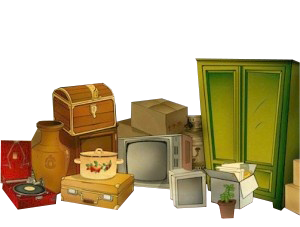
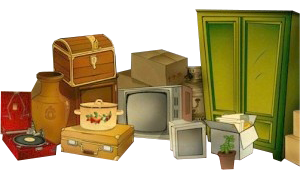
page twelve!

diff --git a/honCartman/index.html b/honCartman/index.html
@@ -104,10 +104,11 @@
       <div class="stairs"><img class="wow tada" src="images/stairs.png" alt=""></div>
       <p class="eleventhText">Upp för en trappa till – raska på!</p>
     </div>
-    <div class="section">
-      <img class="wow fadeInLeft" src="cartman/searchingcart.png" alt="">
-      <img class="wow bounceInRight" src="images/attic.jpg" alt="">
-      <p>Uppe på vinden finns mycket gammalt bråte. Där går det bra att gömma sig. Vi ska ta och leta i hörnet bakom väskorna. Tror du det finns någon där?</p>
+    <div class="section twelfth">
+      <div class="searchingcart"><img class="wow fadeInLeft" src="cartman/searchingcart.png" alt=""></div>
+      <div class="attic"><img class="wow bounceInRight" src="images/attic.png" alt=""></div>
+      <div class="spider"><img class="wow bounceInLeft" src="images/spider.png" alt=""></div>
+      <p class="twelfthText">Uppe på vinden finns mycket gammalt bråte. Där går det bra att gömma sig. Vi ska ta och leta i hörnet bakom väskorna. Tror du det finns någon där?</p>
     </div>
     <div class="section">
       <img class="wow rubberBand" src="cartman/scaredFaceCartman.png" alt="">

diff --git a/honCartman/customize.css b/honCartman/customize.css
@@ -551,12 +551,13 @@ transform: rotate(-30deg);
 /*ELEVENTH PAGE*/
 
 .eleventh {
-  background-color: #8e44ad;
+  background-color: #34495e;
 }
 
 .eleventhText {
   position: absolute;
   margin: auto;
+  color: white;
   font-size: 50px;
   text-align: center;
   bottom: 5%;
@@ -588,6 +589,63 @@ transform: rotate(-30deg);
 }
 
 .stairs img {
+  height: 100%;
+  width: 100%;
+}
+
+/*PAGE TWELVE*/
+
+.twelfth {
+  background-color: #7f8c8d;
+}
+
+.twelfthText {
+  position: absolute;
+  margin: auto;
+  text-align: center;
+  font-size: 34px;
+  top: 39%;
+}
+
+.searchingcart {
+  position: absolute;
+  margin: auto;
+  height: 40%;
+  width: 70%;
+  bottom: 0;
+}
+
+.searchingcart img {
+  position: absolute;
+  height: 90%;
+  width: 80%;
+  bottom: 1%;
+}
+
+.attic {
+  position: absolute;
+  margin: auto;
+  top: 0;
+  height: 40%;
+  width: 95%;
+  left: 2%;
+}
+
+.attic img {
+  height: 100%;
+  width: 100%;
+}
+
+.spider {
+  position: absolute;
+  margin: auto;
+  height: 25%;
+  width: 35%;
+  top: 0;
+  left: 0;
+}
+
+.spider img {
   height: 100%;
   width: 100%;
 }
